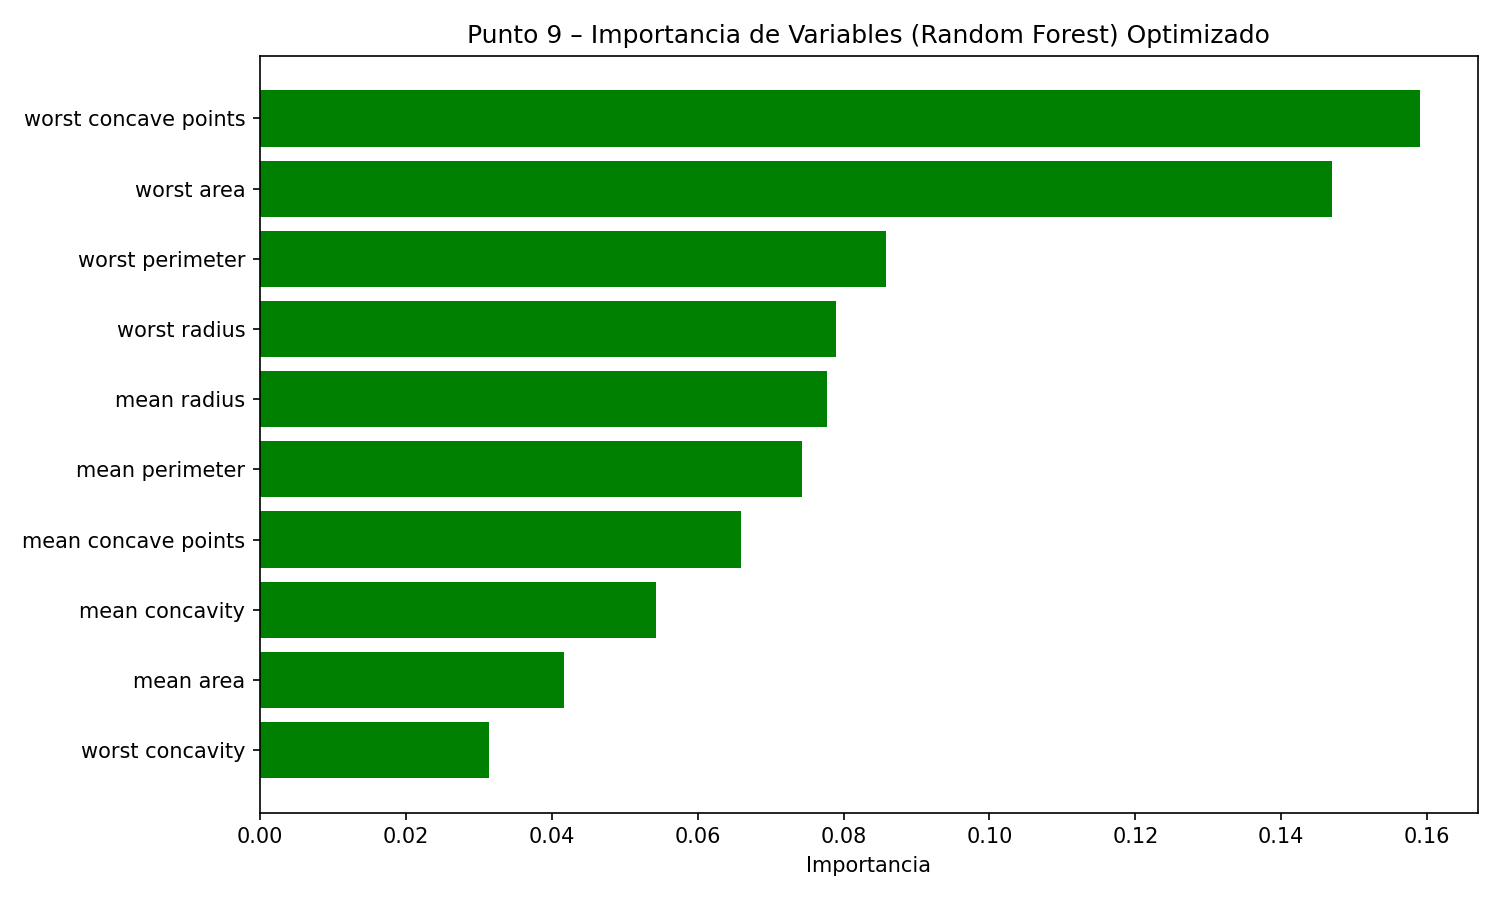
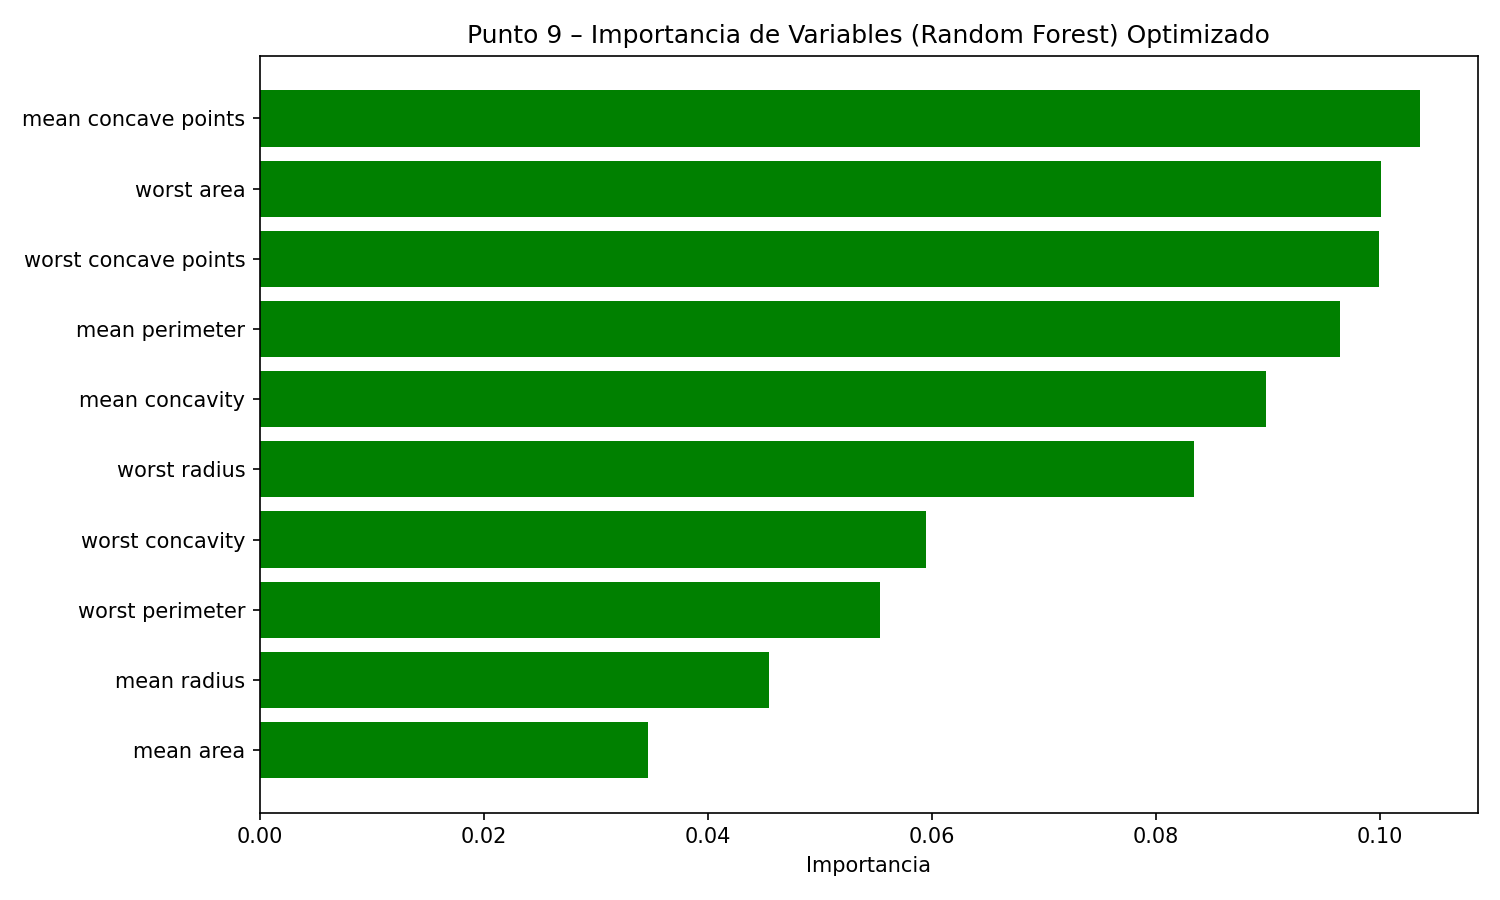
descorrigo

diff --git a/Inteligencia Artifical/Segundo Proyecto/supervisado.py b/Inteligencia Artifical/Segundo Proyecto/supervisado.py
@@ -172,7 +172,7 @@ def split(df):
     columnas = df.columns.values.tolist()
     prediccion = columnas[:30]
     objetivo = columnas[30]
-    x_train,x_test,y_train,y_test= train_test_split(df[prediccion],df[objetivo],test_size=0.30,stratify=df[objetivo],random_state=42)
+    x_train,x_test,y_train,y_test= train_test_split(df[prediccion],df[objetivo],test_size=0.30,stratify=df[objetivo],random_state=56)
     return x_train,x_test,y_train,y_test
 
 def modelos():
